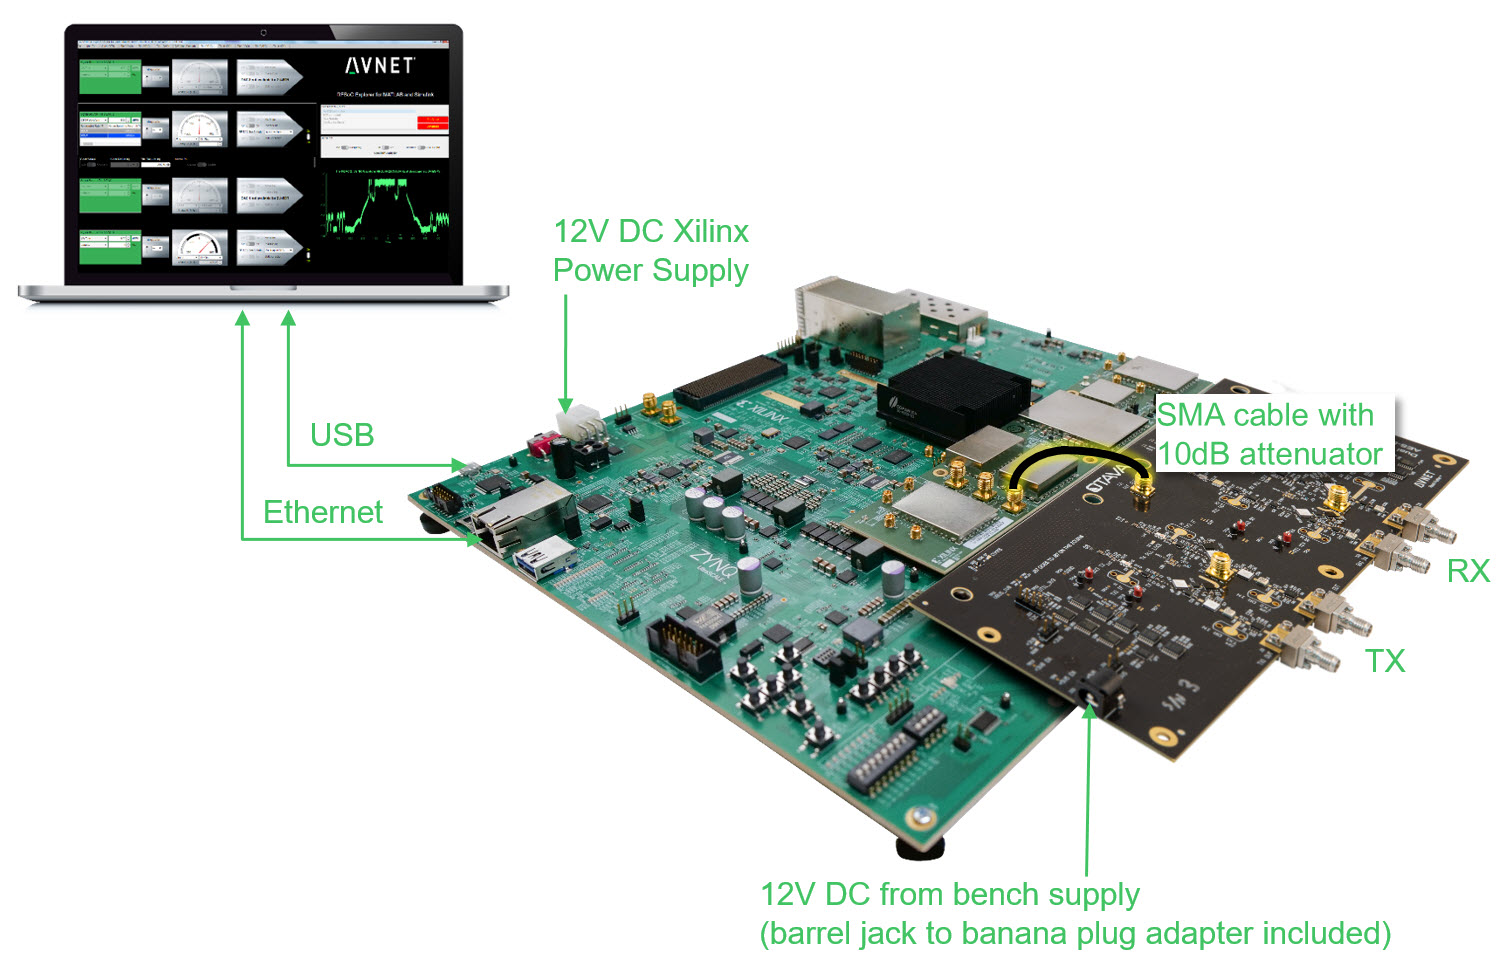
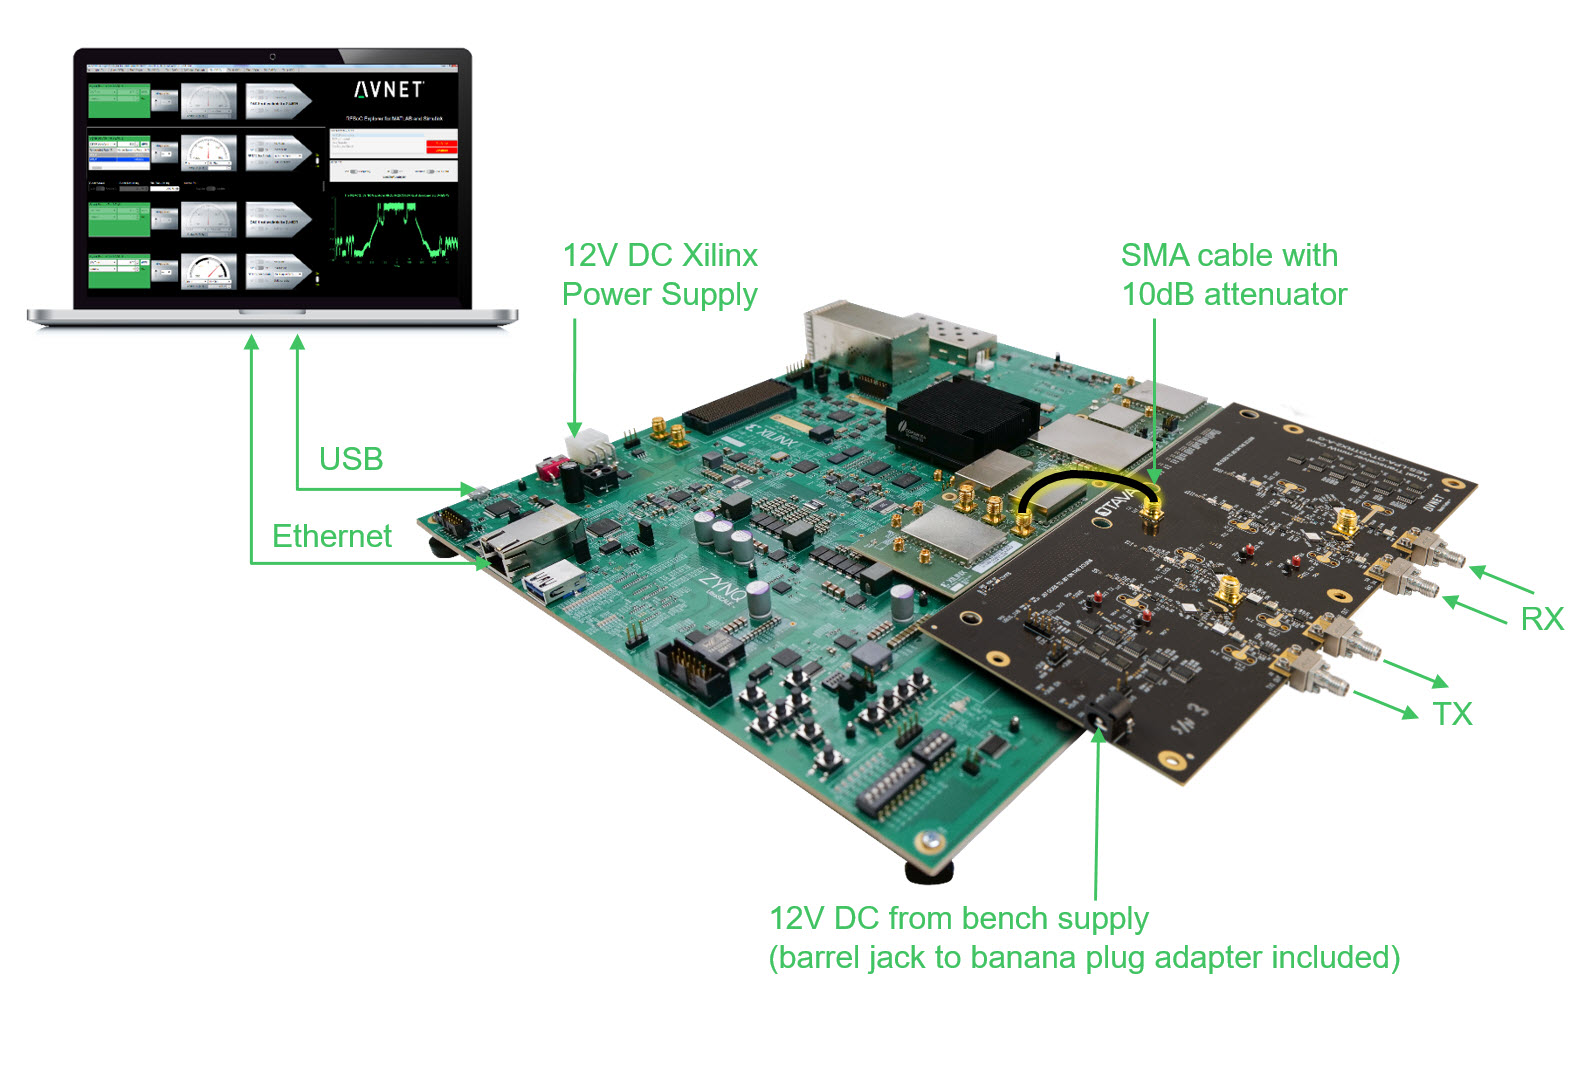
Updates to system_setup.rst & images

Changed region(s): [[0.0, 0.0, 0.9947, 0.9907], [0.6839, 0.2167, 0.8393, 0.3096]]

diff --git a/docs/source/system_setup.rst b/docs/source/system_setup.rst
@@ -1,6 +1,6 @@
 Introduction
 -------------
-This document will show you how to get started with the Avnet Wideband mmWave Radio Dev Kit for RFSoC Gen-3. Follow the step-by-step instructions to configure the kit, setup your computer, and use Avnet RFSoC Explorer® in MATLAB to generate and acquire signals through the Otava mmWave Dual Trancseiver RF Card.
+This document will show you how to get started with the `Avnet Wideband mmWave Radio Development Kit for RFSoC Gen-3 <https://www.avnet.com/rfsoc-mmw>`_. Follow the step-by-step instructions to configure the kit, setup your computer, and use Avnet RFSoC Explorer® in MATLAB to generate and acquire signals through the Otava DTRX2 Dual Transceiver mmWave Radio Card.
 
 .. image:: images_system_setup/zcu208_dtrx2_kit.png
 
@@ -75,9 +75,13 @@ The Xilinx ZCU208 Evaluation Kit has many jumpers and switches that are shipped 
 
 SD Card
 -------
+The ZCU208 requires custom software to control DTRX2 card via RFSoC Explorer.
+
 #. Remove the SD card from the ZCU208, insert into your PC, and format as FAT using a tool like `SD Memory Card Formatter <https://www.sdcard.org/downloads/formatter_4/>`_
 
-#. Download the file **avnet_rfsocX_zcu111_boot_v1_0.zip** This archive contains the software for the ZCU111 evaluation board. Unzip the archive to a convenient location on your hard disk, then copy the files to the root level of the SD card. 
+#. Download the file **avnet_rfsocX_zcu208_boot_v1_0.zip** @ *>>> TBC SURL <<<*
+
+#. Unzip the archive and copy the files to the root level of the SD card. 
 
 #. Safely eject the SD card from the PC and replace into ZCU208.
 
